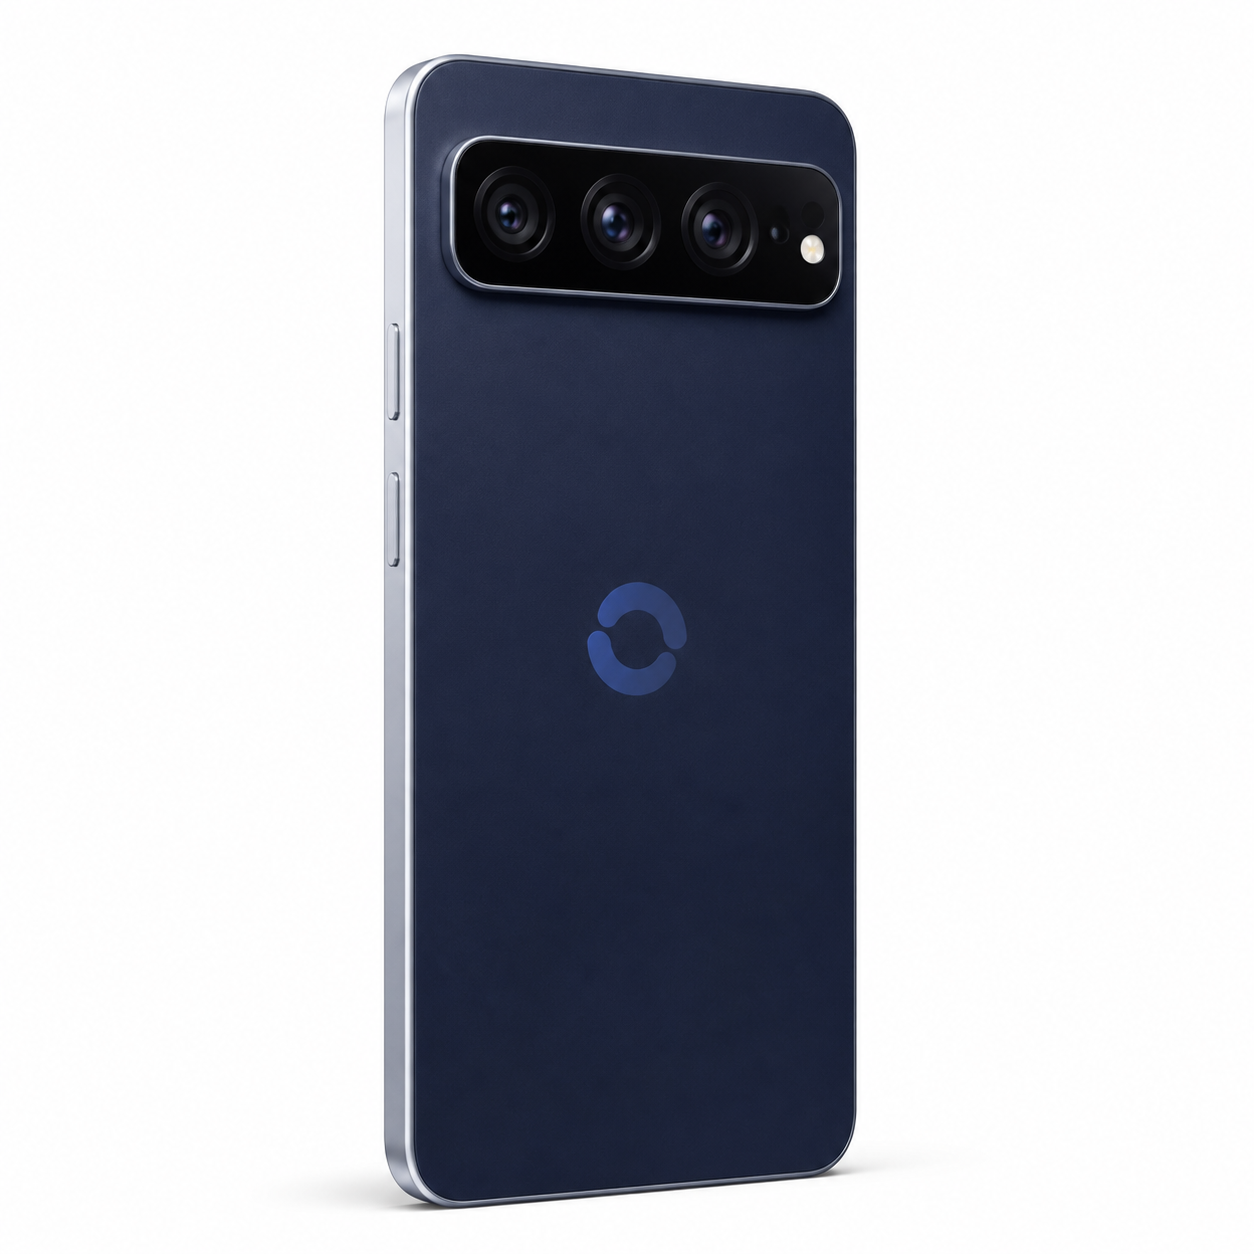
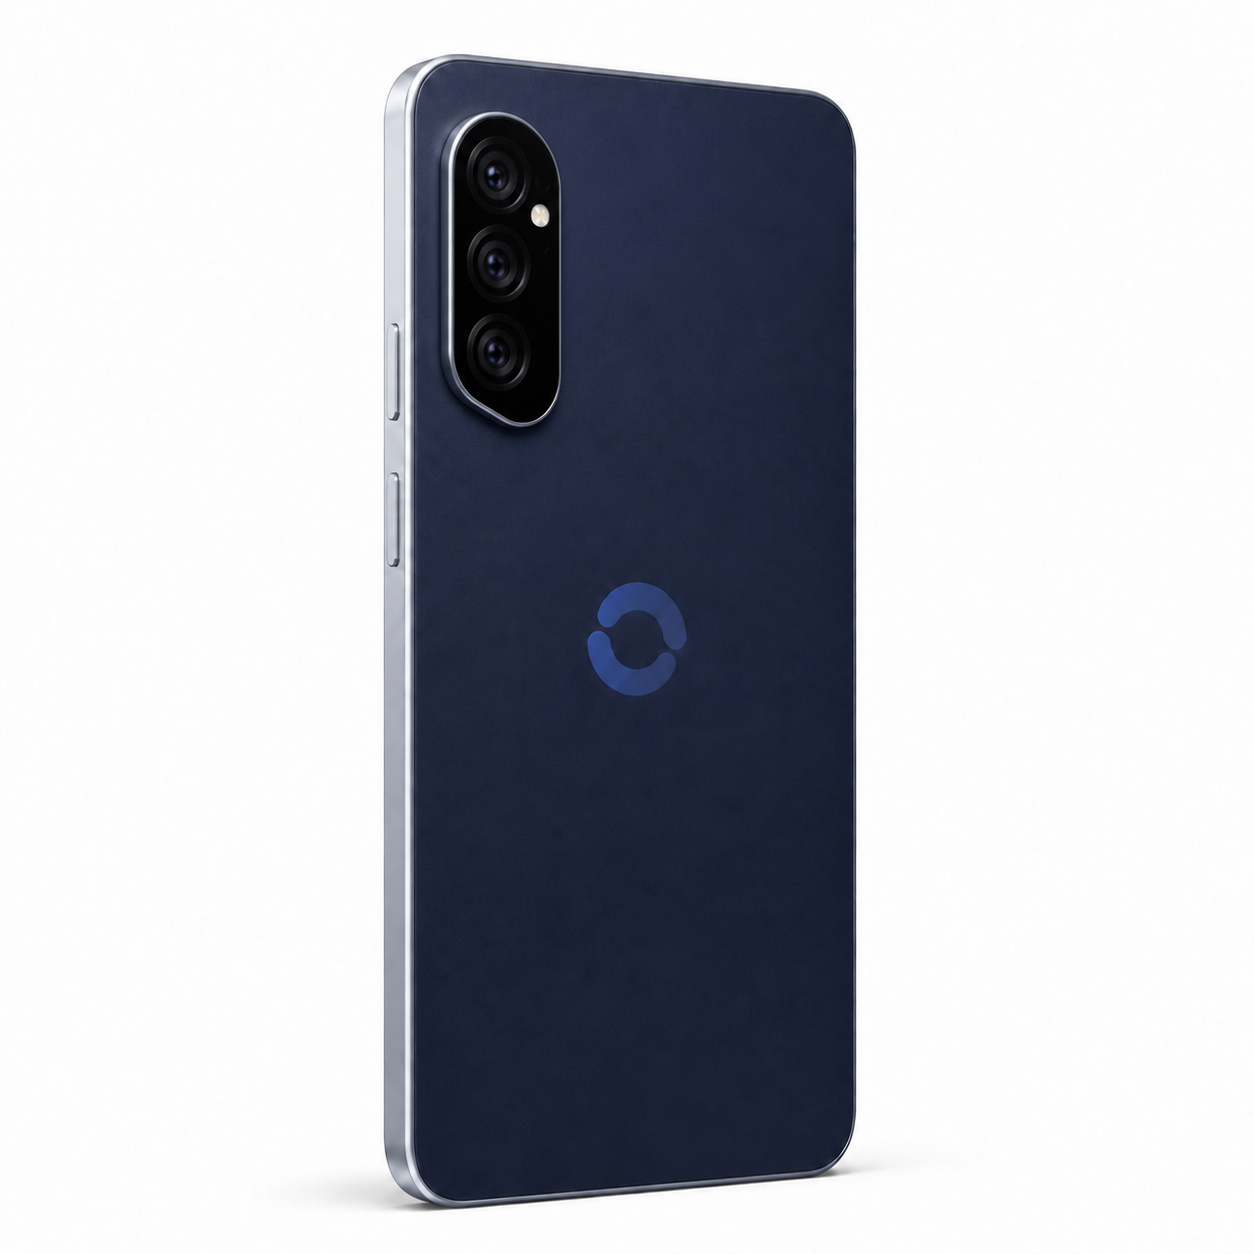
feat(catalog): add product colorway images

Changed region(s): [[0.3421, 0.0933, 0.6842, 0.3732]]

diff --git a/src/library/screens/ProductScreen.tsx b/src/library/screens/ProductScreen.tsx
@@ -12,12 +12,19 @@ import { ColorPicker } from "../shell/ColorPicker";
  * question in one column — brand, name, short description, stock, delivery,
  * price, action. Everything that is not part of that decision sits below.
  */
-export const ProductScreen: React.FC<{ v: Vals }> = ({ v }) => (
+export const ProductScreen: React.FC<{ v: Vals }> = ({ v }) => {
+  const [image, setImage] = React.useState(v.pColorways[0]?.imagePath ?? v.pImage);
+
+  React.useEffect(() => {
+    setImage(v.pColorways[0]?.imagePath ?? v.pImage);
+  }, [v.pSku, v.pImage, v.pColorways]);
+
+  return (
   <div className="t-page product-page">
     <div className="product-grid">
       <section className="product-gallery">
         <div className="product-gallery__main">
-          {v.pImage ? <img src={v.pImage} alt={v.pName} /> : <span className="ms">image</span>}
+          {image ? <img src={image} alt={v.pName} /> : <span className="ms">image</span>}
         </div>
         {v.pIsGpu && (
           <div className="product-panel">
@@ -52,7 +59,7 @@ export const ProductScreen: React.FC<{ v: Vals }> = ({ v }) => (
         </div>
 
         <div className="product-buy__options">
-          <ColorPicker key={v.pSku} colorways={v.pColorways} />
+          <ColorPicker key={v.pSku} colorways={v.pColorways} onChange={colorway => setImage(colorway.imagePath ?? v.pImage)} />
           <OptionPicker label="Storage" value={v.pStorageLabel} icon="sd_card" options={v.pStorageOptions} />
         </div>
 
@@ -150,4 +157,5 @@ export const ProductScreen: React.FC<{ v: Vals }> = ({ v }) => (
       </div>
     </section>
   </div>
-);
+  );
+};

diff --git a/src/library/data/colorways.ts b/src/library/data/colorways.ts
@@ -18,7 +18,17 @@ export interface Colorway {
   /** Swatch fill. Two stops means a two-tone finish. */
   hex: string;
   hex2?: string;
+  imagePath?: string;
 }
+
+const BRAND_SLUGS: Record<string, string> = {
+  Pear: "pear",
+  Litware: "litware",
+  Contoso: "contoso",
+  "Fourth Castle": "fourth-castle",
+  "Y-Ball": "y-ball",
+  "Adventure Works": "adventure-works",
+};
 
 const PALETTES: Record<string, Colorway[]> = {
   Pear: [
@@ -63,5 +73,12 @@ const PALETTES: Record<string, Colorway[]> = {
 /** The finishes this device is offered in. Empty for anything but phones and consoles. */
 export function colorwaysFor(product: Part, slot: Slot): Colorway[] {
   if (slot !== "phones" && slot !== "consoles") return [];
-  return PALETTES[product.brand ?? ""] ?? [];
+  const brand = product.brand ?? "";
+  const slug = BRAND_SLUGS[brand];
+  return (PALETTES[brand] ?? []).map(colorway => ({
+    ...colorway,
+    imagePath: slug
+      ? `/catalog/images/colorways/${slug}/${product.id}/${colorway.id}.png`
+      : undefined,
+  }));
 }

diff --git a/src/library/shell/ColorPicker.tsx b/src/library/shell/ColorPicker.tsx
@@ -8,7 +8,10 @@ import type { Colorway } from "../data/colorways";
  * The selection lives here rather than in app state for that reason — nothing
  * downstream can act on it.
  */
-export const ColorPicker: React.FC<{ colorways: Colorway[] }> = ({ colorways }) => {
+export const ColorPicker: React.FC<{
+  colorways: Colorway[];
+  onChange?: (colorway: Colorway) => void;
+}> = ({ colorways, onChange }) => {
   const [chosen, setChosen] = React.useState(0);
   if (colorways.length < 2) return null;
   const active = colorways[chosen] ?? colorways[0];
@@ -22,7 +25,10 @@ export const ColorPicker: React.FC<{ colorways: Colorway[] }> = ({ colorways }) 
         label: colorway.name,
         note: "In stock",
         selected: index === chosen,
-        pick: () => setChosen(index),
+        pick: () => {
+          setChosen(index);
+          onChange?.(colorway);
+        },
       }))}
     />
   );
